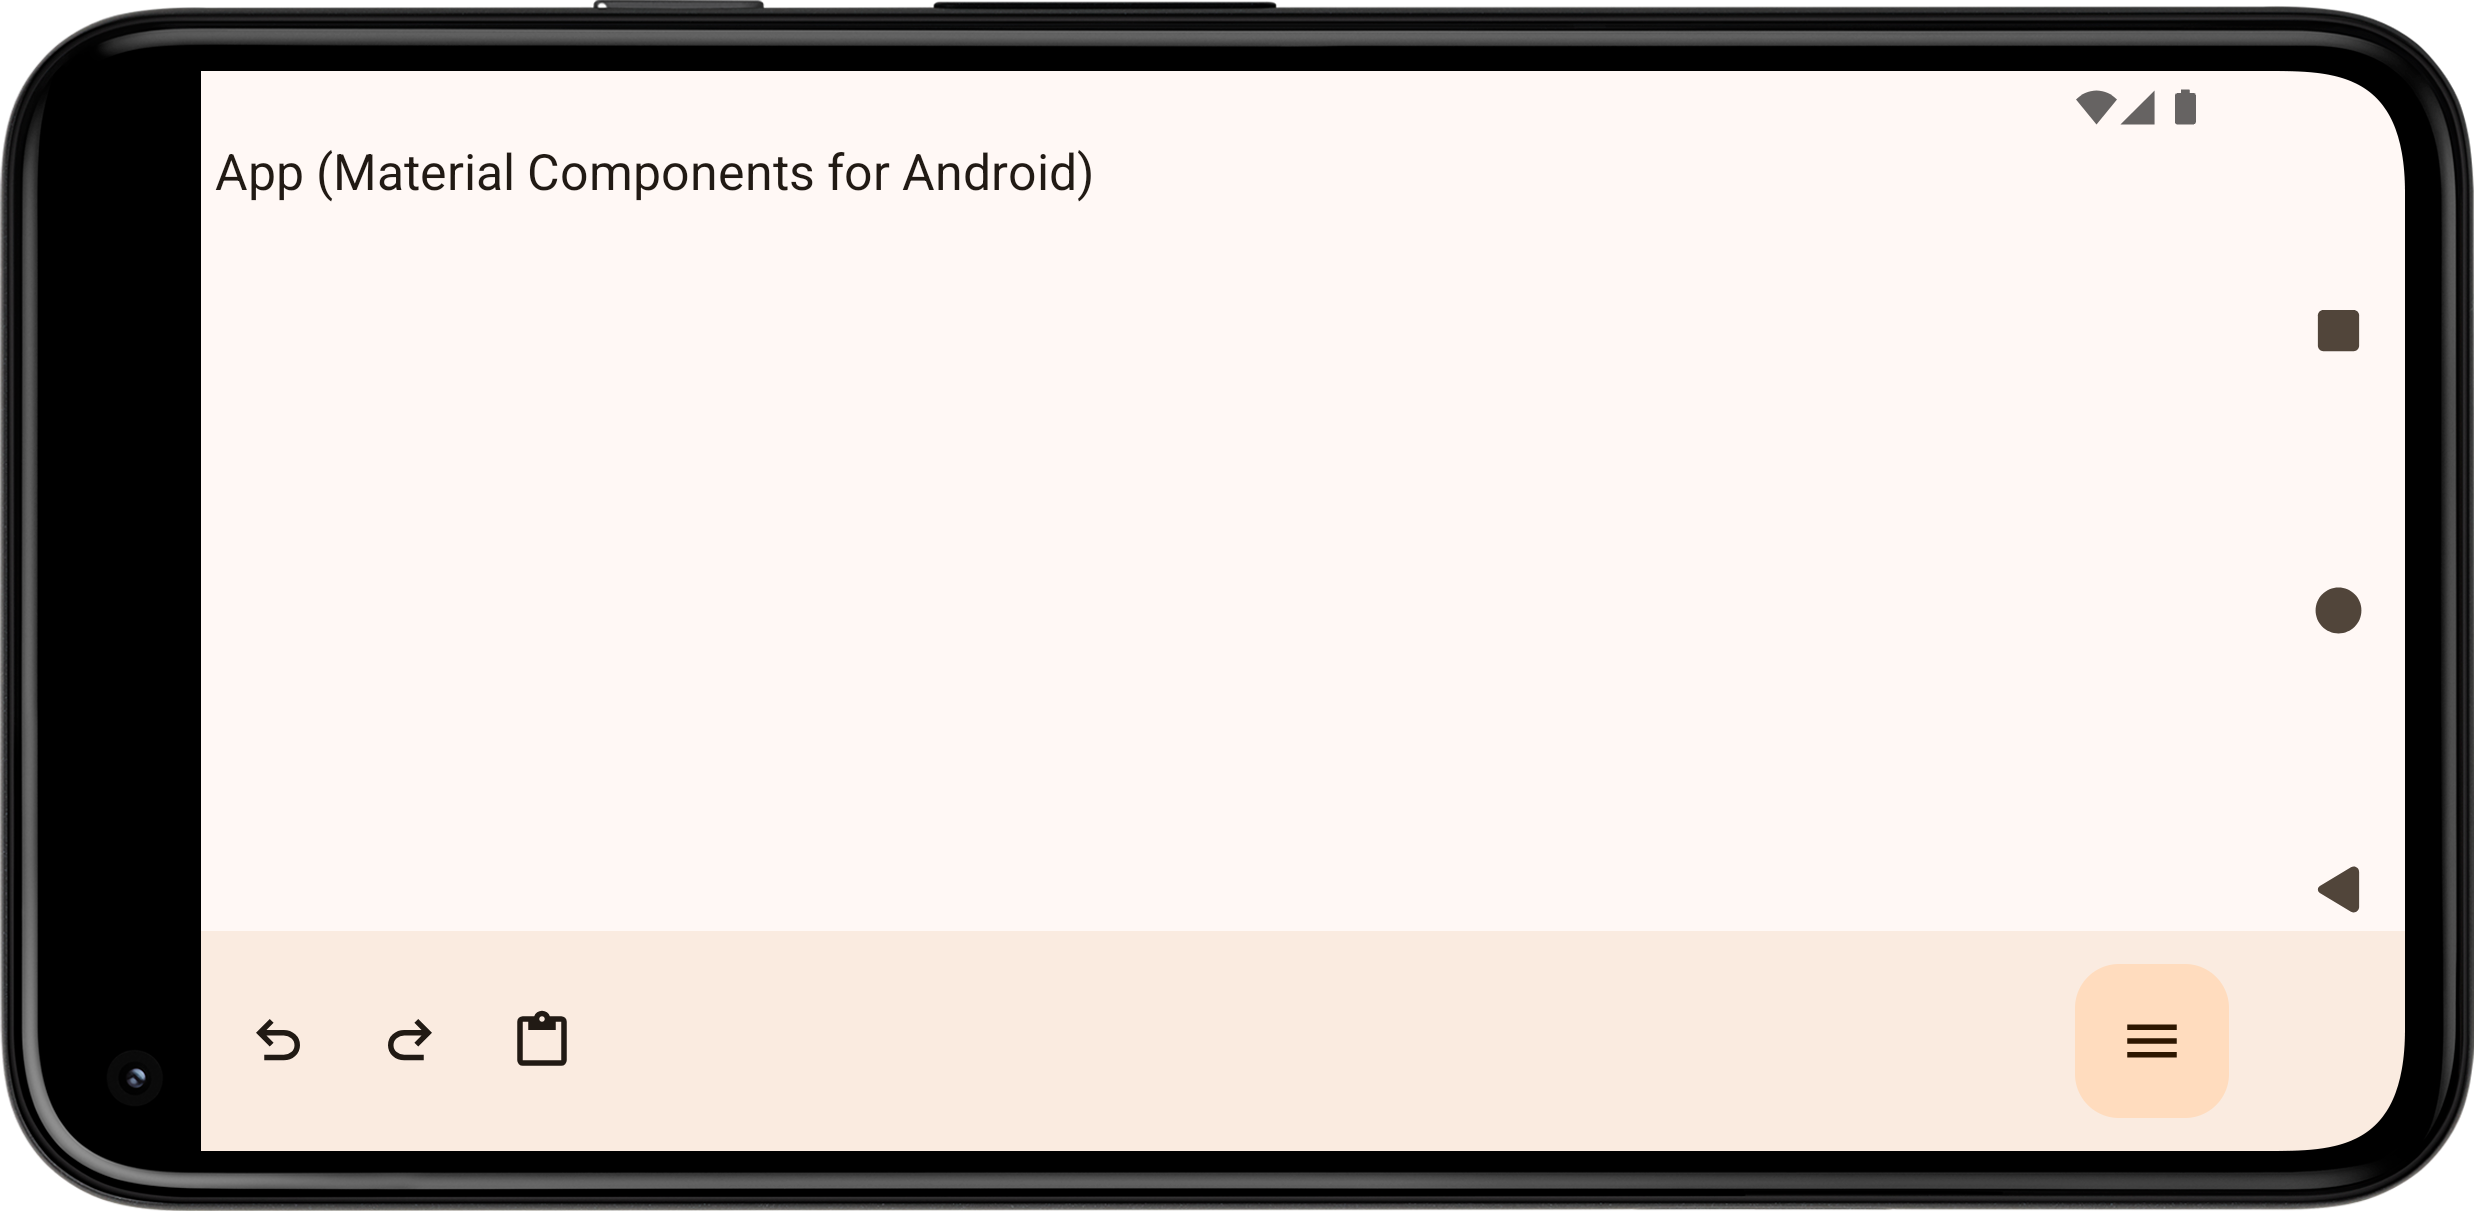
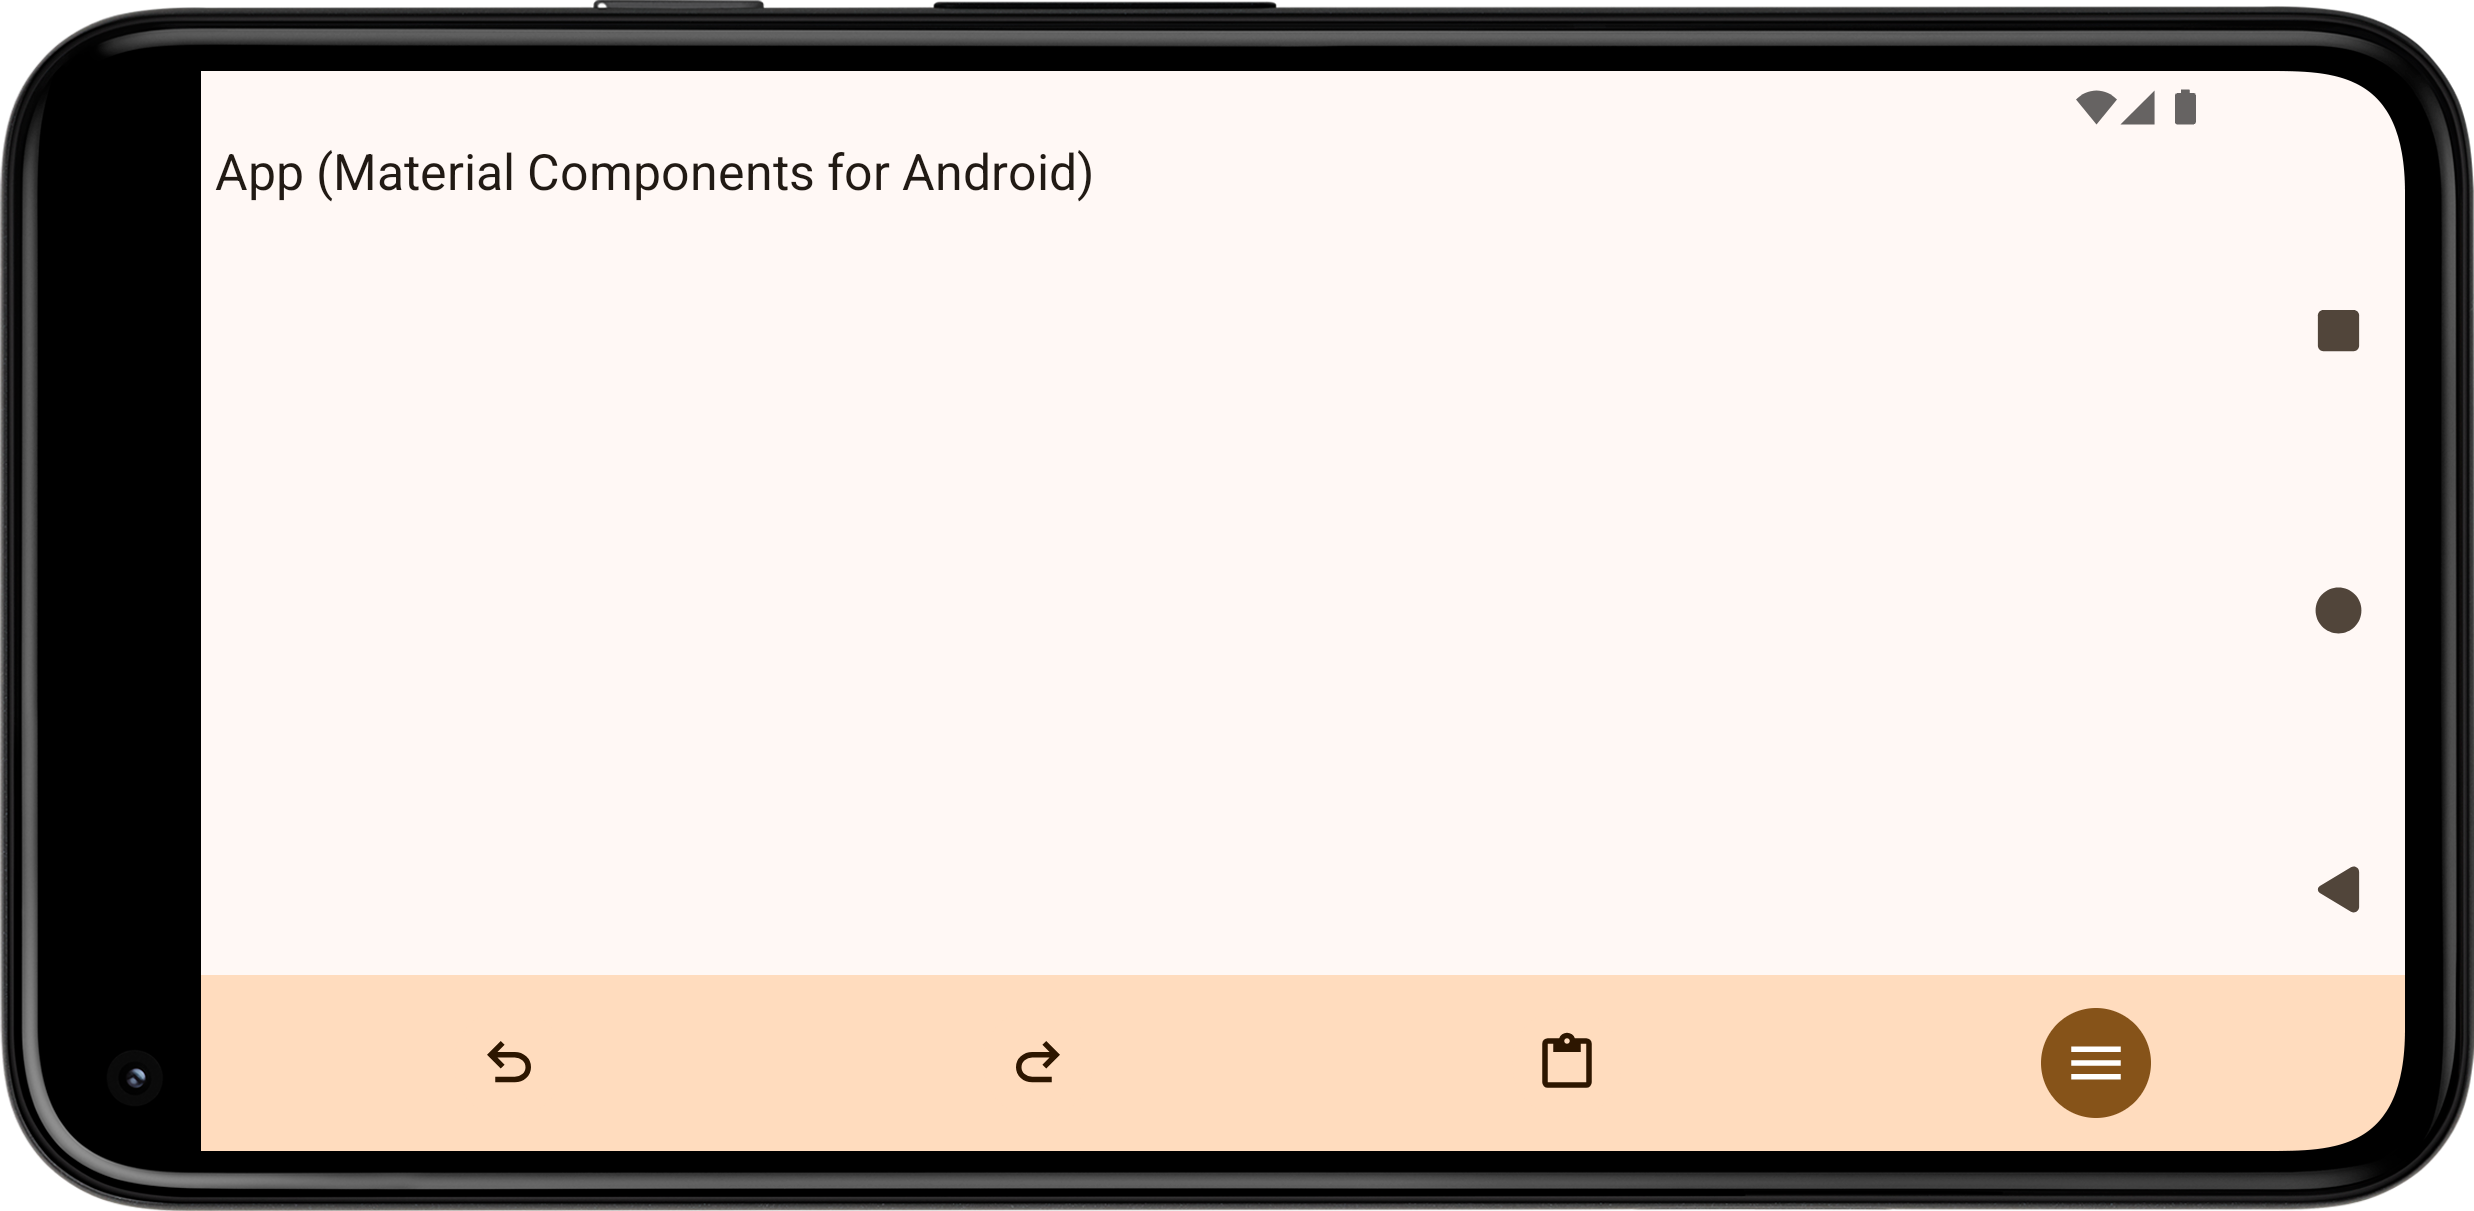
Update

Changed region(s): [[0.0622, 0.7944, 0.996, 0.9777]]

diff --git a/docs/memo.md b/docs/memo.md
@@ -1,10 +1,6 @@
-## [Material 3 Expressive](https://m3.material.io/blog/building-with-m3-expressive) ([docked toolbar](https://github.com/material-components/material-components-android/blob/master/docs/components/DockedToolbar.md))
-
-[editor](../editor) uses the vibrant style.
-
-<img src="m3e.png" width="150">
-
-## Material 3 ([bottom app bar](https://github.com/material-components/material-components-android/blob/master/docs/components/BottomAppBar.md))
+- [Material 3 Expressive](https://m3.material.io/blog/building-with-m3-expressive)
+- [docked toolbar](https://github.com/material-components/material-components-android/blob/master/docs/components/DockedToolbar.md)
+  - [vibrant style](https://github.com/material-components/material-components-android/blob/master/docs/components/DockedToolbar.md#styles)
 
 > [!CAUTION]
 > The app targeted Android 14 and ran on Android 15 (Android Emulator).\
@@ -26,7 +22,7 @@ https://issuetracker.google.com/issues/326356902
 🟥https://github.com/manabu-nakamura/app/blob/main/editor/src/main/res/values/themes.xml:
 - [`android:windowLayoutInDisplayCutoutMode`](https://developer.android.com/reference/android/R.attr#windowLayoutInDisplayCutoutMode)
 ```xml
-<style name="Theme.App" parent="Theme.Material3.DynamicColors.DayNight.NoActionBar">
+<style name="Theme.App" parent="Theme.Material3Expressive.DayNight.NoActionBar">
     <item name="android:windowLayoutInDisplayCutoutMode">shortEdges or always</item>
 </style>
 ```
@@ -36,7 +32,7 @@ https://issuetracker.google.com/issues/326356902
 - [`android:navigationBarColor`](https://developer.android.com/reference/android/R.attr#navigationBarColor),
 [`android:enforceNavigationBarContrast`](https://developer.android.com/reference/android/R.attr#enforceNavigationBarContrast)
 ```xml
-<style name="Theme.App" parent="Theme.Material3.DynamicColors.DayNight.NoActionBar">
+<style name="Theme.App" parent="Theme.Material3Expressive.DayNight.NoActionBar">
     <item name="bottomSheetDialogTheme">@style/ThemeOverlay.App.BottomSheetDialog</item>
     <item name="android:enforceNavigationBarContrast">false</item>
     <item name="android:windowLayoutInDisplayCutoutMode">shortEdges or always</item>
@@ -52,7 +48,7 @@ https://github.com/material-components/material-components-android/blob/main/doc
 
 - [`android:windowLightNavigationBar`](https://developer.android.com/reference/android/R.attr#windowLightNavigationBar)
 ```xml
-<style name="Theme.App" parent="Theme.Material3.DynamicColors.DayNight.NoActionBar">
+<style name="Theme.App" parent="Theme.Material3Expressive.DayNight.NoActionBar">
     <item name="bottomSheetDialogTheme">@style/ThemeOverlay.App.BottomSheetDialog</item>
     <item name="android:enforceNavigationBarContrast">false</item>
     <item name="android:windowLayoutInDisplayCutoutMode">shortEdges or always</item>
@@ -72,7 +68,7 @@ https://github.com/material-components/material-components-android/issues/4293
 
 - `paddingBottomSystemWindowInsets`
 ```xml
-<style name="Theme.App" parent="Theme.Material3.DynamicColors.DayNight.NoActionBar">
+<style name="Theme.App" parent="Theme.Material3Expressive.DayNight.NoActionBar">
     <item name="bottomSheetDialogTheme">@style/ThemeOverlay.App.BottomSheetDialog</item>
     <item name="android:enforceNavigationBarContrast">false</item>
     <item name="android:windowLayoutInDisplayCutoutMode">shortEdges or always</item>
@@ -113,7 +109,7 @@ https://issuetracker.google.com/issues/362137845
 🟥https://github.com/manabu-nakamura/app/blob/main/editor/src/main/res/values/themes.xml:
 - [`android:windowLayoutInDisplayCutoutMode`](https://developer.android.com/reference/android/R.attr#windowLayoutInDisplayCutoutMode)
 ```xml
-<style name="Theme.App" parent="Theme.Material3.DynamicColors.DayNight.NoActionBar">
+<style name="Theme.App" parent="Theme.Material3Expressive.DayNight.NoActionBar">
     <item name="android:windowLayoutInDisplayCutoutMode">shortEdges or always</item>
 </style>
 ```
@@ -122,7 +118,7 @@ https://issuetracker.google.com/issues/362137845
 
 - [`android:enforceNavigationBarContrast`](https://developer.android.com/reference/android/R.attr#enforceNavigationBarContrast)
 ```xml
-<style name="Theme.App" parent="Theme.Material3.DynamicColors.DayNight.NoActionBar">
+<style name="Theme.App" parent="Theme.Material3Expressive.DayNight.NoActionBar">
     <item name="android:enforceNavigationBarContrast">false</item>
     <item name="android:windowLayoutInDisplayCutoutMode">shortEdges or always</item>
 </style>

diff --git a/README.md b/README.md
@@ -27,7 +27,6 @@ App ([Material Components for Android](https://github.com/material-components/ma
   - [Contributions](https://github.com/android/compose-samples/issues?q=author%3Amanabu-nakamura) 🟥
   - [App](https://github.com/manabu-nakamura/appc) and [Memo](https://github.com/manabu-nakamura/appc/blob/main/docs/memo.md) 🟥
 
-<img src="docs/m3e.png" width="150">\
 <img src="docs/s1.png" width="150"><img src="docs/s2.png" width="150">\
 <img src="docs/s22.png" width="150"><img src="docs/s23.png" width="150">\
 <img src="docs/s3.png" width="150"><img src="docs/s4.png" width="150">
